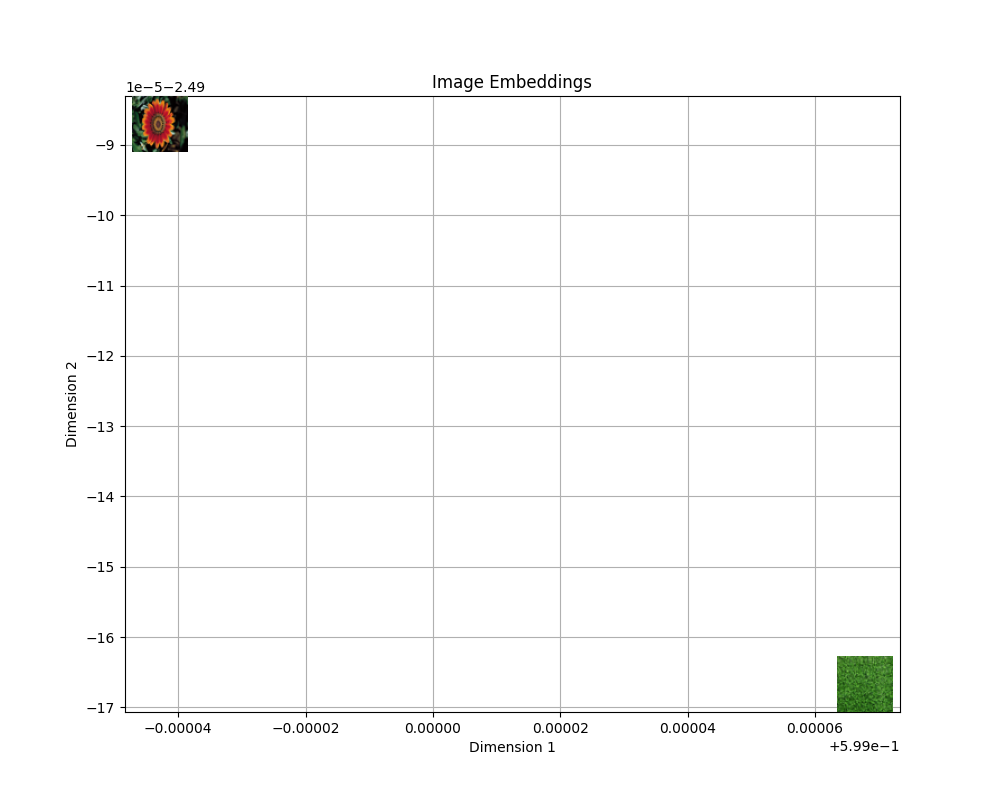
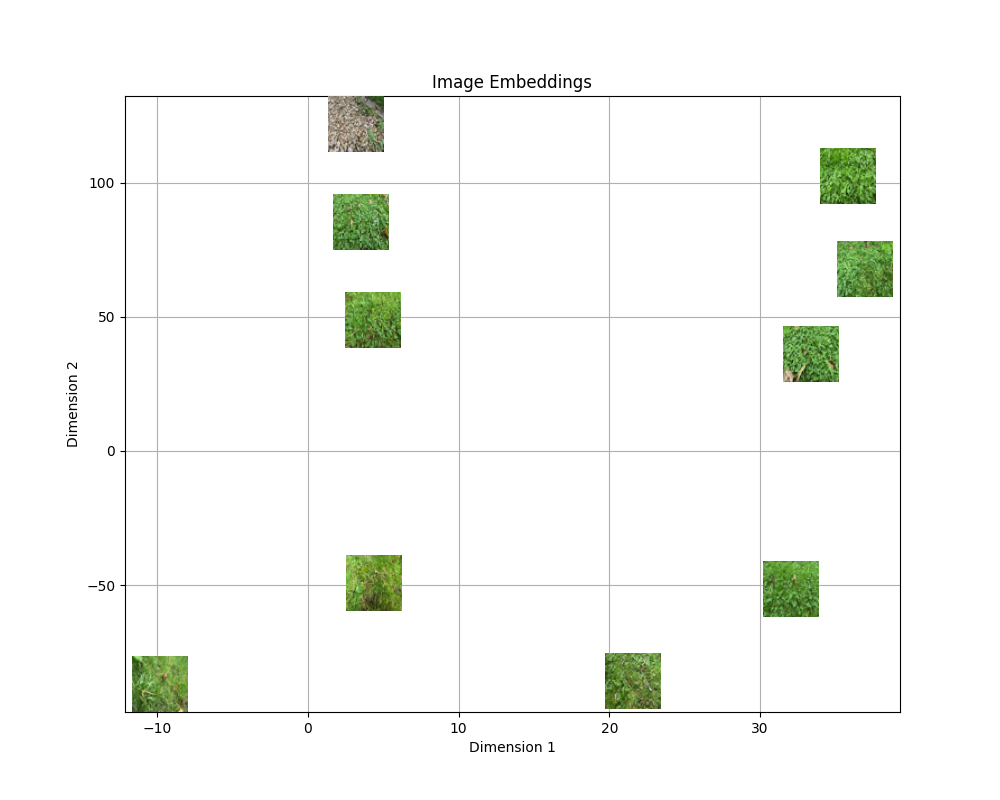
Added clear embeddings to app

diff --git a/templates/index.html b/templates/index.html
@@ -5,9 +5,20 @@
 
 <h1>2D embeddings space</h1>
 
-<form action="{{ url_for('toggle') }}" method="post">
-    <button type="submit">{{ "Show initial samples" }}</button>
-</form>
+<table>
+    <tr>
+        <td>
+            <form action="{{ url_for('toggle') }}" method="post">
+                <button class="btn btn-outline-primary" type="submit">{{ "Show initial samples" }}</button>
+            </form>
+        </td>
+        <td>
+            <form action="{{ url_for('reset') }}" method="post">
+                <button class="btn btn-outline-primary" type="submit">{{ "Reset embeddings" }}</button>
+            </form>
+        </td>
+    </tr>
+</table>
 
 <img id="embeddings_plot" src="{{ url_for('static', filename='images/embeddings_plot.png') }}" alt="Embeddings Plot" width="900">
 

diff --git a/webserver.py b/webserver.py
@@ -13,7 +13,6 @@ import torch
 from torchvision.models import resnet50
 from torchvision import transforms
 from collections import OrderedDict
-
 import json
 
 
@@ -29,6 +28,16 @@ toggle_samples = False
 
 if not os.path.exists(UPLOAD_FOLDER):
     os.makedirs(UPLOAD_FOLDER)
+
+def clear_images_in_directory(directory_path):
+    for filename in os.listdir(directory_path):
+        file_path = os.path.join(directory_path, filename)
+        if os.path.isfile(file_path):
+            try:
+                os.remove(file_path)
+                print(f'Deleted: {file_path}')
+            except Exception as e:
+                print(f'Error deleting {file_path}: {e}')
 
 def encoder(model, input_tensor):
     model.eval()  # Set the model to evaluation mode
@@ -74,23 +83,23 @@ def preprocess_image(image):
     return image_tensor 
         
 def load_img(img_path, target_size=None):
-    """Load and resize an image."""
     img = Image.open(img_path)
     if target_size:
         img = img.resize(target_size)
     return np.array(img)  # Convert to a numpy array for matplotlib
         
 def visualize_embeddings(embeddings, samples_vis=False):
-    print("Visualize embedding")
-    embeddings = np.array(embeddings)
-    features = tsne.fit_transform(embeddings)  # Fit the t-SNE model to the embeddings
-    embeddings = embeddings.tolist()
+    print("Visualize embeddings...")
+    embeddings = np.array(embeddings) # nodig om tsne toe te passen
+    features = tsne.fit_transform(embeddings) # Fit the t-SNE model to the embeddings
+    embeddings = embeddings.tolist() # terug naar lijst
 
     # Create a scatter plot
     plt.figure(figsize=(10, 8))
     
     if samples_vis:
         samples = sorted(os.listdir("samples"), key=lambda x: int(x.split('.')[0]))
+        print("Images in sample directory: ", samples)
 
         # Loop through each point and add the corresponding thumbnail
         for idx, point in enumerate(features[:length_intial_embeddings]):
@@ -110,7 +119,7 @@ def visualize_embeddings(embeddings, samples_vis=False):
 
     # Do for captured frames    
     frames = sorted(os.listdir(UPLOAD_FOLDER), key=lambda x: int(x.split('.')[0]))
-    print(frames)
+    print("Images in frames directory: ", frames)
 
     # Loop through each point and add the corresponding thumbnail
     for idx, point in enumerate(features[length_intial_embeddings:]):
@@ -137,8 +146,6 @@ def visualize_embeddings(embeddings, samples_vis=False):
     plot_image_path = os.path.join('static/images', 'embeddings_plot.png')  # Save in the static folder
     plt.savefig(plot_image_path)
     plt.close()
-
-    return
         
 @app.route("/")
 def home():
@@ -175,26 +182,36 @@ def plot():
     return redirect(url_for('home'))       
 
 @app.route('/reset', methods=['POST'])
-def reset_embeddings():
+def reset():
+    global embeddings
     # Remove embeddings from list
-    # Clear directory of frames
-    pass
+    print(f"Resizing embeddings vector with length {len(embeddings)}, to initial length of {length_intial_embeddings}.")
+    embeddings = embeddings[:length_intial_embeddings]
+    clear_images_in_directory(UPLOAD_FOLDER) # Clear directory of frames
+    visualize_embeddings(embeddings, samples_vis=toggle_samples) 
+    return redirect(url_for('home'))       
 
 if __name__ == "__main__":
     
     model = load_model() # Load the PlantNet model and weights
     
-    tsne = TSNE(n_components=2, perplexity=25, random_state=42, max_iter=1000)
+    tsne = TSNE(n_components=2, perplexity=5, random_state=42, max_iter=1000) # Initialize tsne
 
-    # Load initial datapoints voor TSNE
+    # Load sample datapoints voor tsne
     with open("embeddings.json", 'r') as json_file:
         json_data = json.load(json_file)
-    
-    embeddings = [item['feature'] for item in json_data] 
-    length_intial_embeddings = len(embeddings)
 
-    size = sys.getsizeof(embeddings)
-    print("Total size list in bytes:", size)
+    # Check available smaples 
+    embeddings = [json_data[idx]['feature'] for idx in range(len(os.listdir("samples")))] 
+
+    length_intial_embeddings = len(embeddings)
+    print(f"Length of initial embedding vector with samples: {length_intial_embeddings}")
+
+    # size = sys.getsizeof(embeddings)
+    # print("Total size list in bytes:", size)
+
+    # Remove captured frames
+    clear_images_in_directory(UPLOAD_FOLDER)
 
     visualize_embeddings(embeddings, samples_vis=False) 
     
